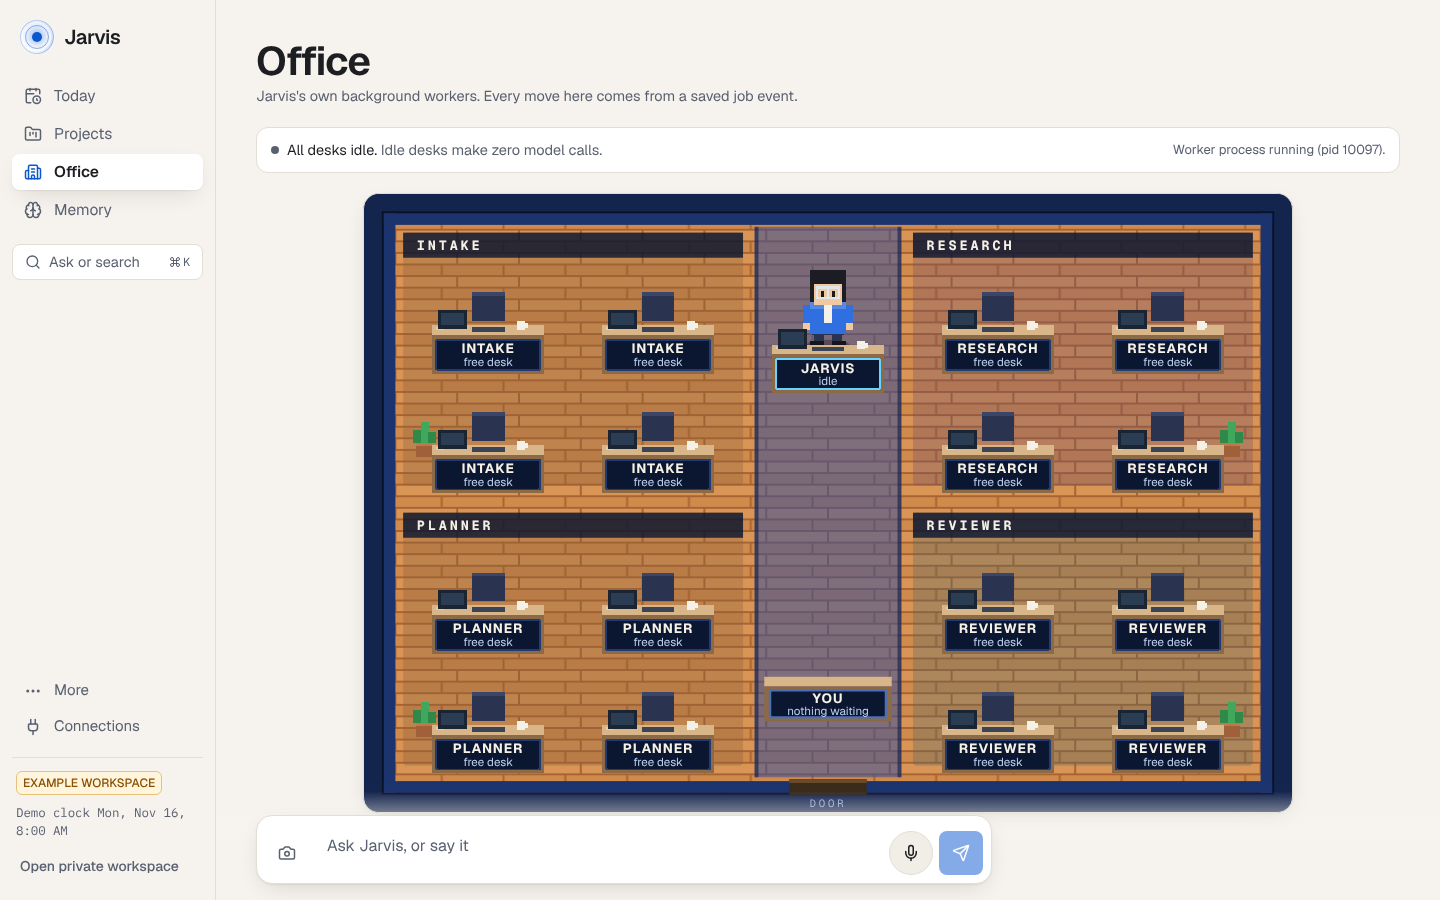
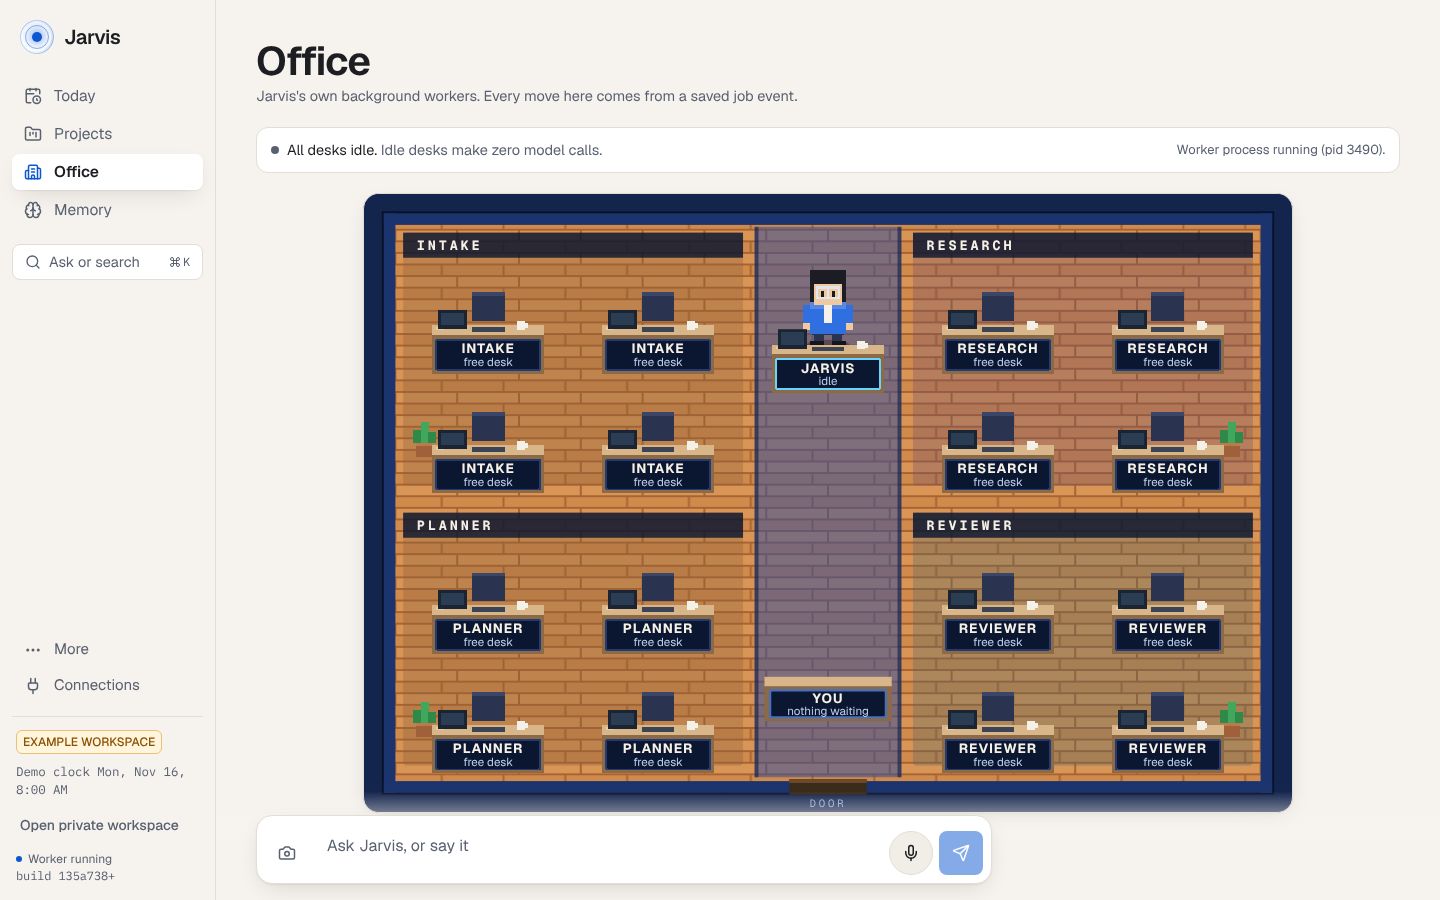
Item 1 checkpoint: PROGRESS, sidebar build/worker e2e check
Claude-Session: https://claude.ai/code/session_01LVTA14dv2q5dUimpnS7hsM

Changed region(s): [[0.0, 0.7156, 0.125, 0.9956], [0.8125, 0.1556, 0.9688, 0.1867]]

diff --git a/scripts/e2e.ts b/scripts/e2e.ts
@@ -1245,6 +1245,8 @@ async function journeyThread(browser: Browser) {
   await lp.goto(base + "/connections"); await lp.getByTestId("sources-panel").getByText(/Mail \(fixture\)/).waitFor();
   for (const v of views) { await v.p.goto(base + "/office"); await v.p.getByTestId("handoff-strip").waitFor(); }
 
+  await lp.getByTestId("build-id").waitFor({ timeout: 20000 });
+  ok(/^build \S+/.test(await lp.getByTestId("build-id").innerText()) && /Worker running/.test(await lp.getByTestId("worker-state").innerText()), "the sidebar shows which build is running and that a worker is beating on this workspace");
   step("Office: the room is first, and the composer does not cover it");
   for (const [w, h] of [[1440, 900], [1280, 720], [1024, 768]] as const) {
     await lp.setViewportSize({ width: w, height: h }); await lp.waitForTimeout(300);

diff --git a/PROGRESS.md b/PROGRESS.md
@@ -3,20 +3,20 @@
 Branch `claude/upbeat-cannon-wf5kxf`. Start commit `dd8499a`. No PR, no deploy, no paid model calls, no external sends, no private-account connections. All inputs invented.
 
 ## Work queue (in order)
-- [ ] 1. One-command Mac launch: app + worker + open private Today, health, same-workspace check, ports, stop/restart, build id, upgrade with backup/adopt
+- [x] 1. One-command Mac launch: app + worker + open private Today, health, same-workspace check, ports, stop/restart, build id, upgrade with backup/adopt
 - [ ] 2. Private intake: blank -> one note + optional calendar -> cited corrected brief; unclassified sentences reviewable; catch-up once; last successful check
 - [ ] 3. Claude/project continuity: share one project, preview, reopen, revoke all; privacy proofs; pitch draft versioned from a correction
 - [ ] 4. Feedback and memory: feedback tied to source/project/result; why the next brief changed; one narrow skill proposal with before/after
 - [ ] 5. Release QA/design: Connections detach repro, Study flake, WebKit check, visual inspection; `npm run verify` + `npm run e2e` from a clean checkout; MORNING.md top
 
 ## Latest pushed checkpoint
-`dd8499a` (start). Tests at start: typecheck clean, 413 unit tests, full e2e 437 checks 0 problems (Chromium).
+`dd8499a` (start); item 1 committed locally, pushed with the next checkpoint. Tests at start: typecheck clean, 413 unit tests, full e2e 437 checks 0 problems (Chromium).
 
 ## Tests run tonight
-(none yet)
+- Item 1: `npx tsx scripts/launch-qa.ts` 35 checks, 0 problems (disposable installs, paths with spaces; unrelated app and earlier Jarvis on the port; missing deps; stale build; upgrade v9->v11 with a saved result, old folder byte-identical). Real `npm ci`+build+start from a bare copy: ok. 413 unit tests pass.
 
 ## Next unchecked item
-1
+2
 
 ## Dependencies on Yonathan's account/device (recorded, never blocking)
 - Mac: run the launcher once, Claude Desktop connector, Blackboard sign-in, real notes/calendar.
